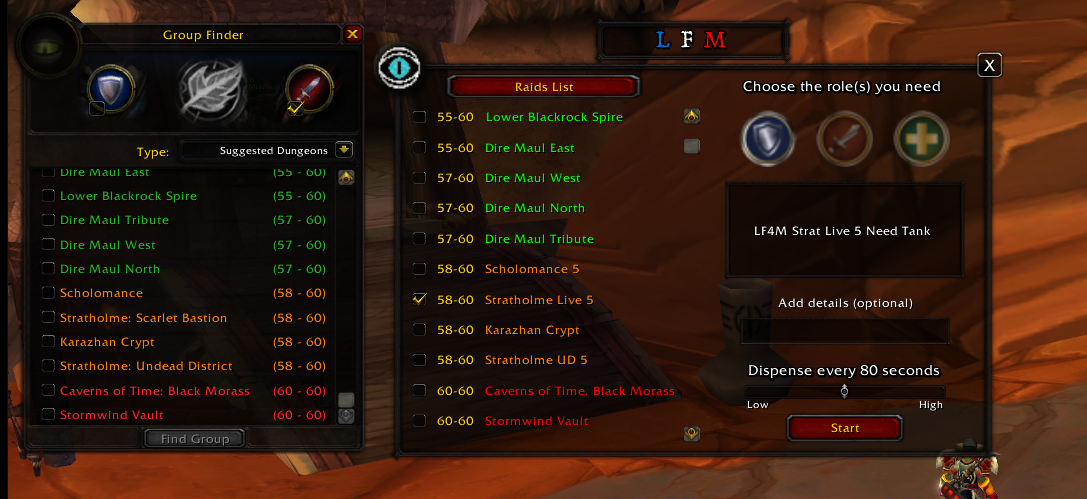
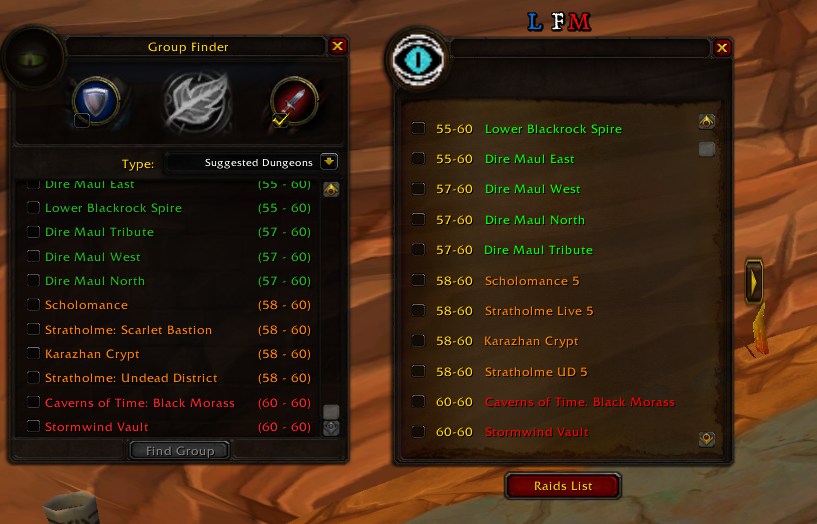
Update images for channel, donjons, quest, and raid; remove questLink image

diff --git a/README.md b/README.md
@@ -12,7 +12,7 @@ https://github.com/FSuhas/AutoLFM
 
 ![donjons scaling](donjons.PNG)
 
-![quest](questLink.PNG)
+![quest](quest.PNG)
 
 ![raid selector](raid.PNG)
 
